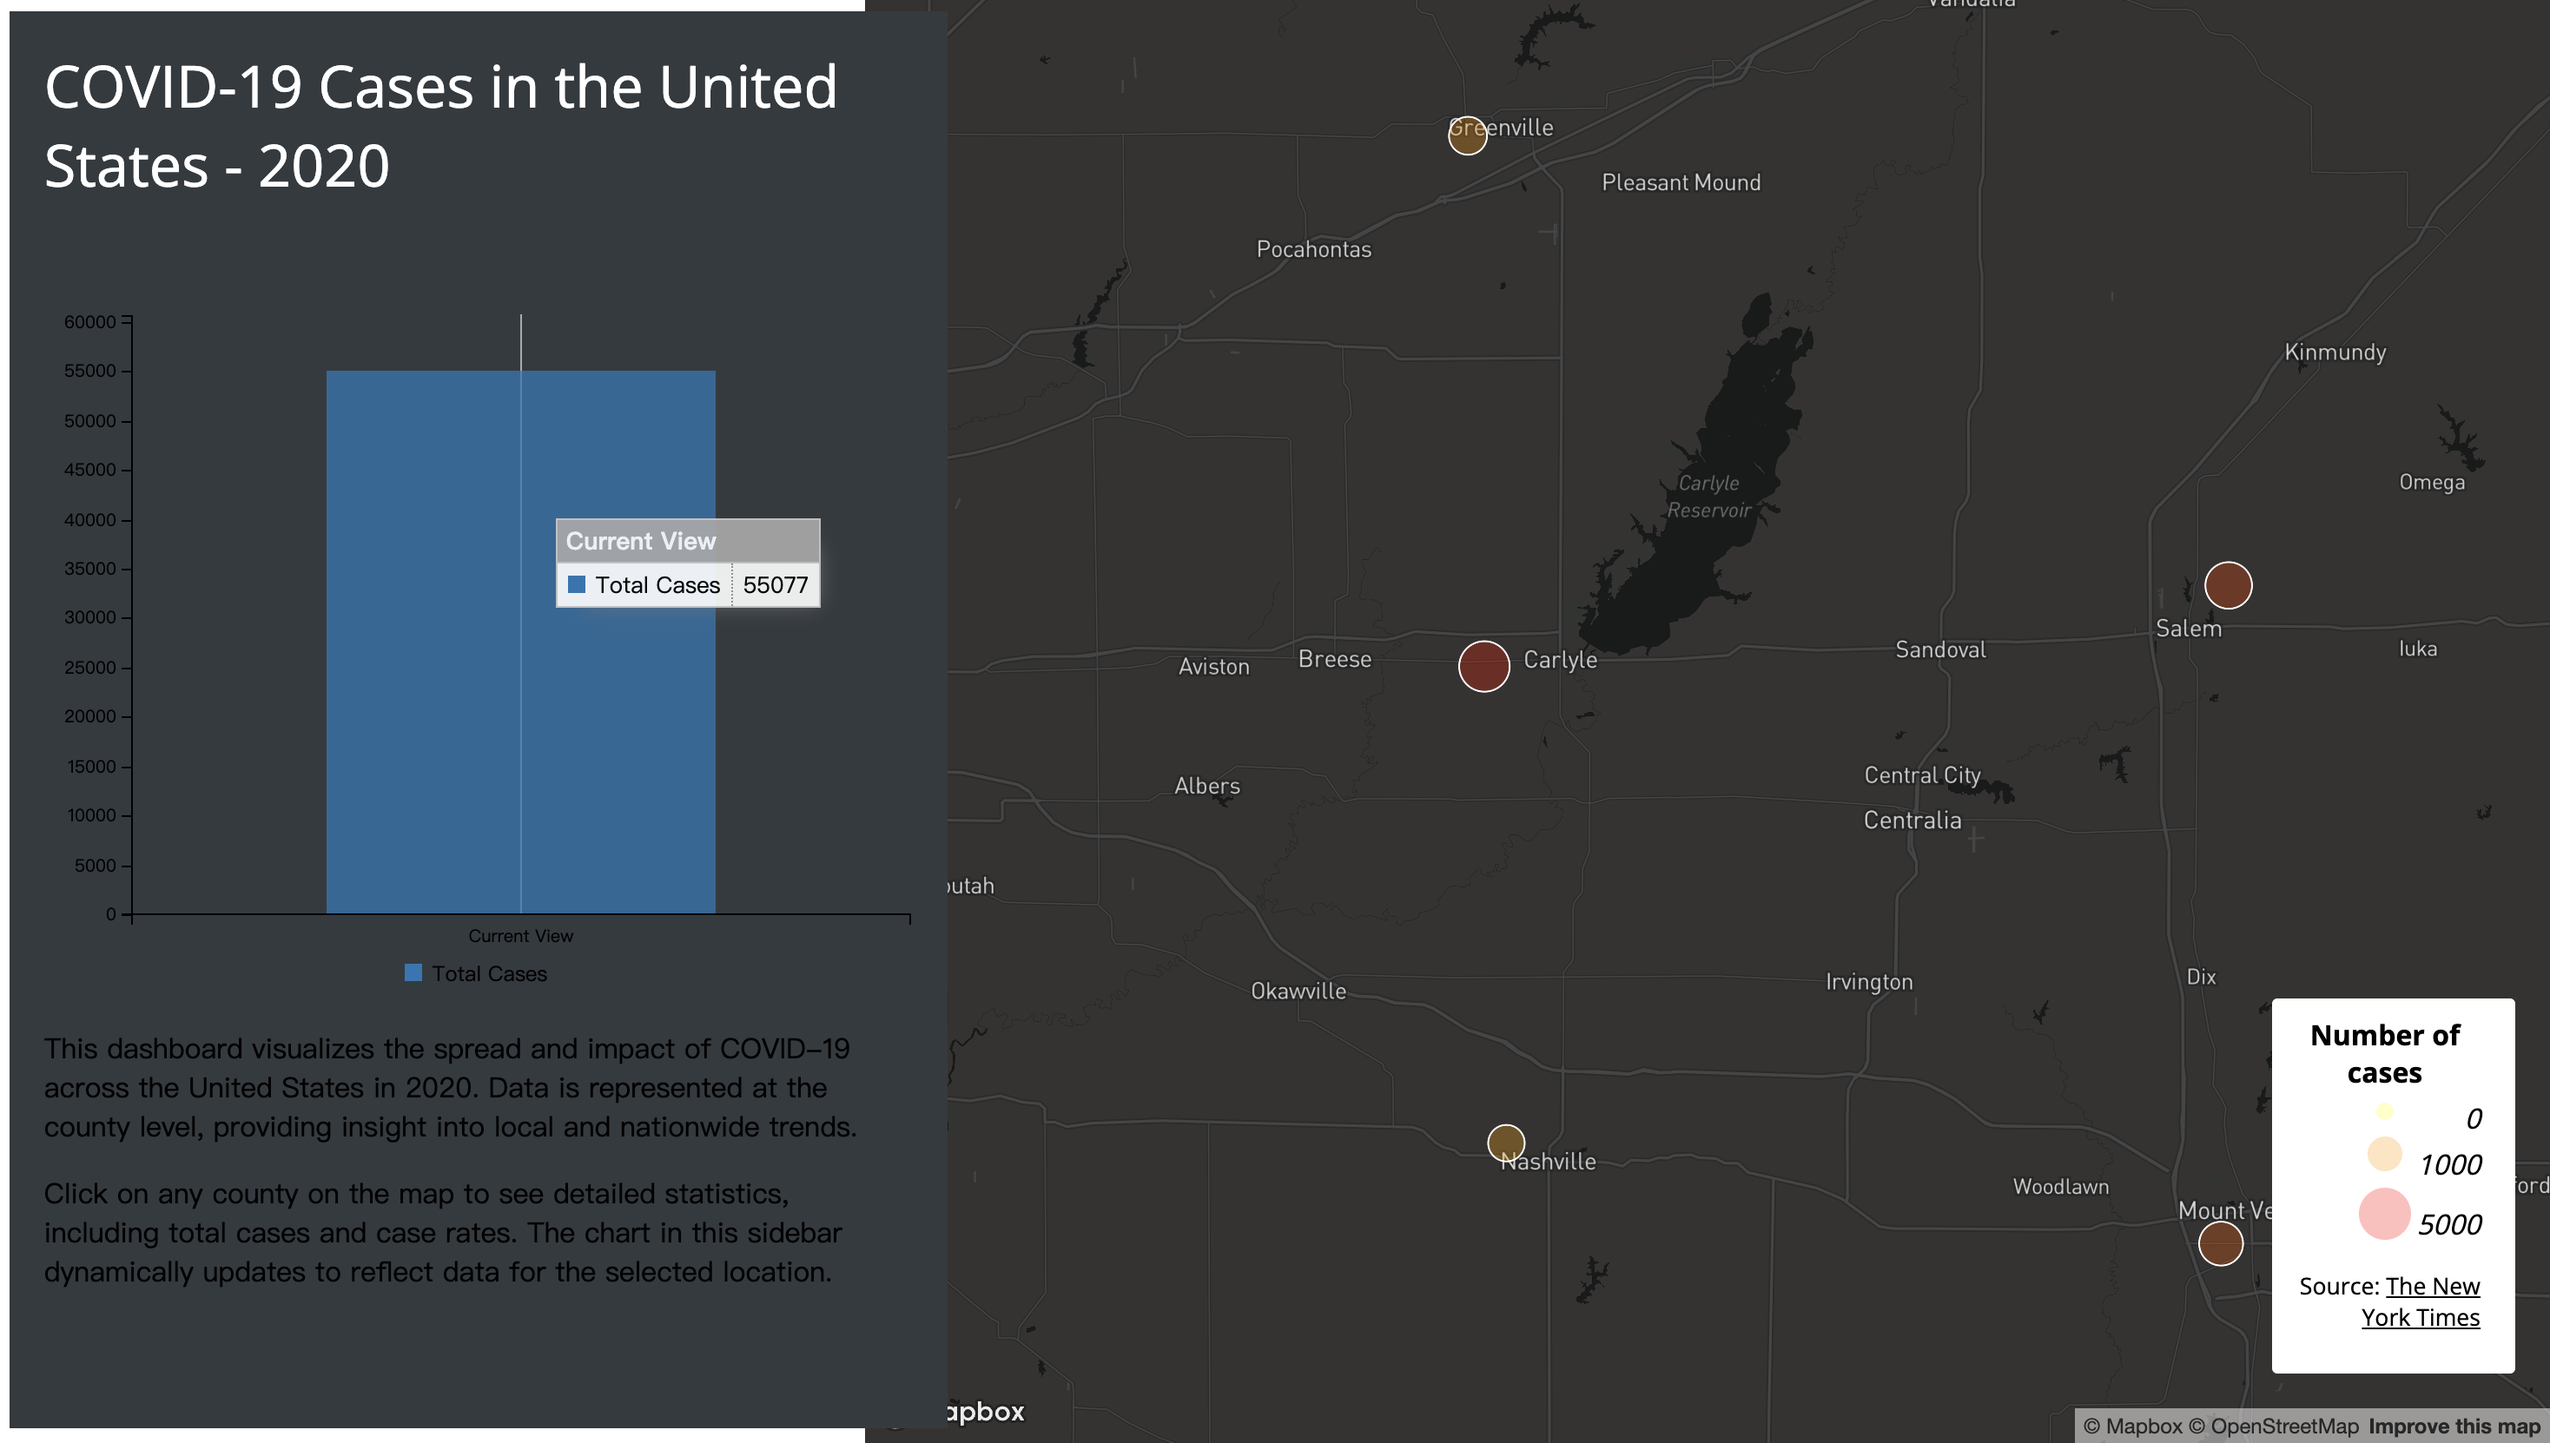
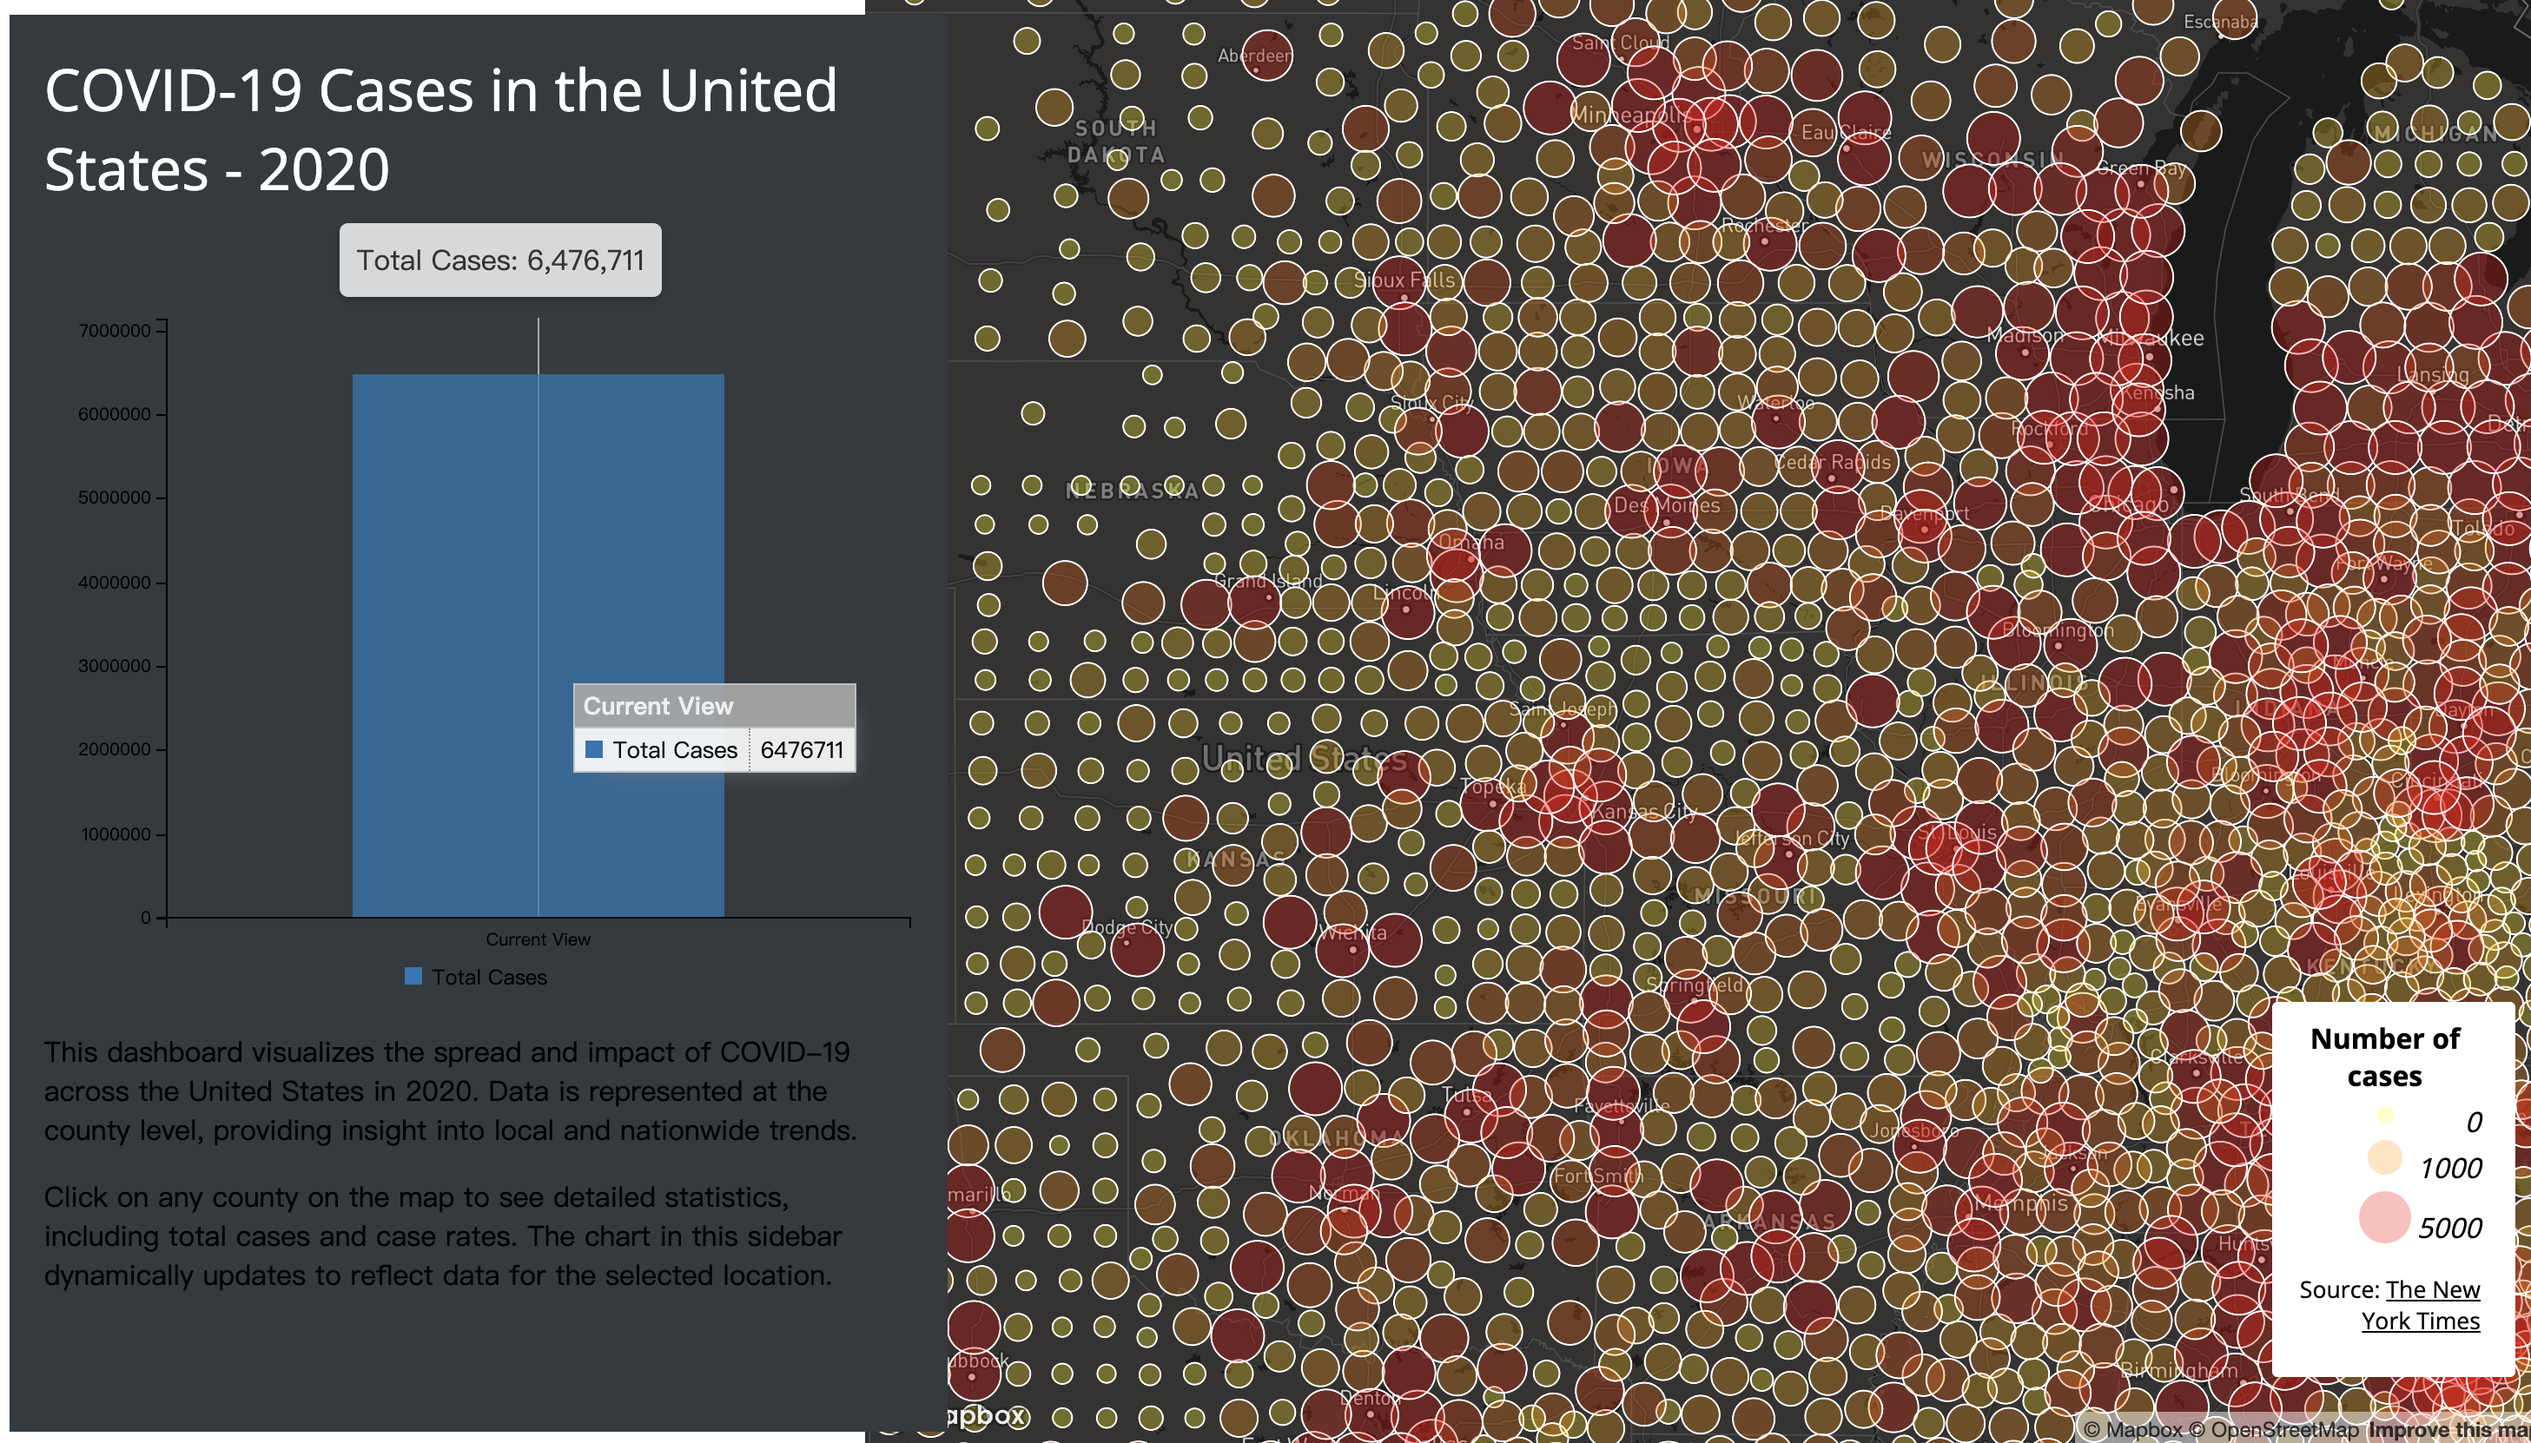
3

diff --git a/map2.html b/map2.html
@@ -19,6 +19,7 @@
 <body>
     <div id="sidebar">
         <div id="title">COVID-19 Cases in the United States - 2020</div>
+        <div id="totalCasesDisplay">Total Cases: 0</div>
         <div id="chart"></div>
         <div id="description">
             <p>This dashboard visualizes the spread and impact of COVID-19 across the United States in 2020. Data is represented at the county level, providing insight into local and nationwide trends.</p>

diff --git a/js/map2.js b/js/map2.js
@@ -96,6 +96,8 @@ mapboxgl.accessToken =
             var totalCases = visibleFeatures.reduce(function(acc, feature) {
                 return acc + feature.properties.cases;
             }, 0);
+
+            document.getElementById('totalCasesDisplay').innerText = "Total Cases: " + totalCases.toLocaleString();
         
             
             var chartData = [

diff --git a/css/style.css b/css/style.css
@@ -97,3 +97,16 @@ a {
     width: 100%;
     height: 400px; 
 }
+
+#totalCasesDisplay {
+    position: absolute;
+    top: 120px; 
+    left: 190px; 
+    background-color: rgba(255, 255, 255, 0.8);
+    padding: 10px;
+    border-radius: 5px;
+    z-index: 1; 
+    font-size: 16px;
+    color: #333; 
+    box-shadow: 0 2px 4px rgba(0,0,0,0.2); 
+}
